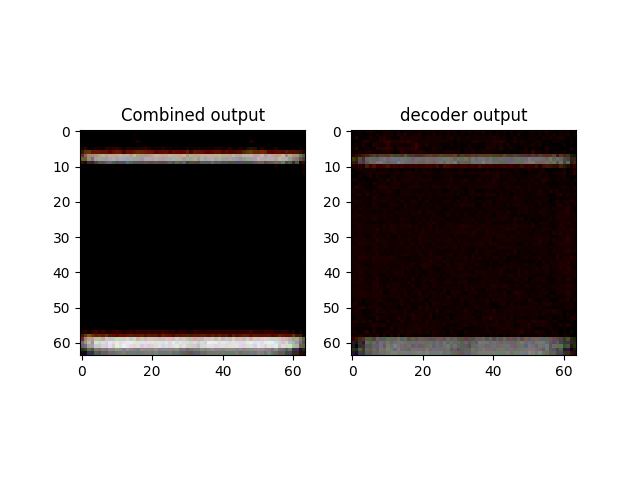
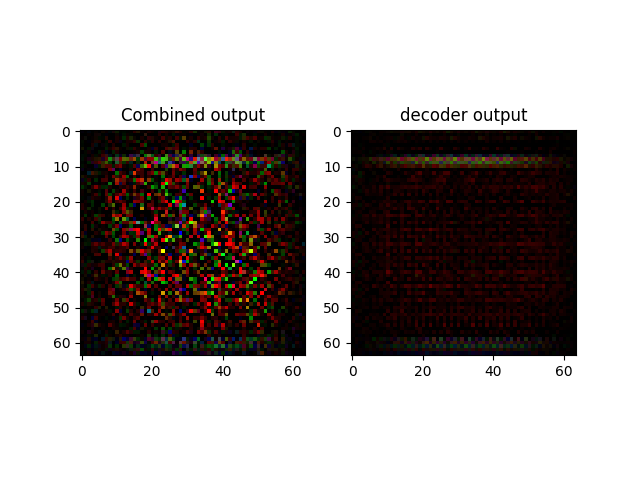
decoder-encoder framework added with results

Changed region(s): [[0.125, 0.25, 0.5, 0.75], [0.5312, 0.2812, 0.9062, 0.75]]

diff --git a/pydreamer/models/NewCNN.py b/pydreamer/models/NewCNN.py
@@ -17,13 +17,45 @@ class NewCNN(nn.Module):
         super().__init__()
         self.out_dim = cnn_depth * 32
         kernels = (4, 4, 4, 4)
-        stride = 1
+        stride = 2
         padding = 1
         d = cnn_depth
-        self.model = nn.Sequential(
-            nn.Conv2d(in_channels, d, kernels[0], stride, padding=2),
+
+        self.encoder = nn.Sequential(
+            nn.Conv2d(in_channels, d, kernels[0], stride),
             activation(),
-            nn.Conv2d(d, 1, kernels[1], stride, padding),
+            nn.Conv2d(d, d*2, kernels[1], stride),
+            activation(),
+            nn.Conv2d(d*2, d*4, kernels[2], stride),
+            activation(),
+            # nn.Conv2d(d*4, d*8, 4, stride),
+            # activation(),
+        )
+
+        self.neuralnetwork_small = nn.Sequential(
+            nn.Flatten(),
+            nn.Linear(4608, 1536),
+            activation(),
+            nn.Unflatten(1, (384, 2, 2)),
+            nn.ConvTranspose2d(d*8, d*4, 4, stride=2),
+            activation(),
+        )
+
+        self.neuralnetwork = nn.Sequential(
+            nn.Flatten(),
+            nn.Linear(20736, 10368),
+            activation(),
+            nn.Linear(10368, 6912),
+            activation(),
+            nn.Unflatten(1, (192, 6, 6))
+        )
+
+        self.decoder = nn.Sequential(
+            nn.ConvTranspose2d(d*4, d*2, 4, stride=2),
+            activation(),
+            nn.ConvTranspose2d(d*2, d, 4, stride=2),
+            activation(),
+            nn.ConvTranspose2d(d, in_channels, 6, stride=2),
             activation(),
         )
 
@@ -32,7 +64,7 @@ class NewCNN(nn.Module):
         self.x_2 = None
         self.x_3 = None
         self.iter = 0
-        self.picture_every = 100
+        self.picture_every = 10
 
     def forward(self, x: Tensor) -> Tensor:
         if self.x_0 is None:
@@ -54,14 +86,16 @@ class NewCNN(nn.Module):
         x_1_out, bd1 = flatten_batch(self.x_1, 3)
         x_2_out, bd2 = flatten_batch(self.x_1, 3)
         x_3_out, bd3 = flatten_batch(self.x_1, 3)
-        y_1 = self.model(x_1_out)
-        y_2 = self.model(x_2_out)
-        y_3 = self.model(x_3_out)
-        y_1 = unflatten_batch(y_1, bd1)
-        y_2 = unflatten_batch(y_2, bd2)
-        y_3 = unflatten_batch(y_3, bd3)
-
-        y = torch.cat((y_1, y_2, y_3), 2)
+        y_1 = self.encoder(x_1_out)
+        y_2 = self.encoder(x_2_out)
+        y_3 = self.encoder(x_3_out)
+        y = torch.stack((y_1, y_2, y_3), 1)
+        # print(f"size y after encoder: {y.size()}")
+        y = self.neuralnetwork(y)
+        # print(f"size y after nn: {y.size()}")
+        y = self.decoder(y)
+        # print(f"size y after decoder: {y.size()}")
+        y = unflatten_batch(y, bd1)
 
         self.iter += 1
         if self.iter == self.picture_every:

diff --git a/pydreamer/models/encoders.py b/pydreamer/models/encoders.py
@@ -47,7 +47,6 @@ class MultiEncoder(nn.Module):
         embeds = []
 
         if self.encoder_image:
-            print(obs['image'].size(), new_output.size())
             image = obs['image'] - new_output
             T, B, C, H, W = image.shape
             if self.reward_input:
